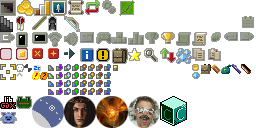
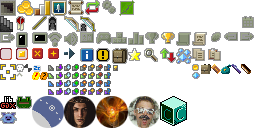
1.3: implemented knightresgue

Changed region(s): [[0.3125, 0.125, 0.375, 0.25]]

diff --git a/core/src/main/java/com/shatteredpixel/shatteredpixeldungeon/actors/hero/HeroClass.java b/core/src/main/java/com/shatteredpixel/shatteredpixeldungeon/actors/hero/HeroClass.java
@@ -23,6 +23,7 @@ package com.shatteredpixel.shatteredpixeldungeon.actors.hero;
 
 import com.shatteredpixel.shatteredpixeldungeon.*;
 import com.shatteredpixel.shatteredpixeldungeon.actors.hero.abilities.ArmorAbility;
+import com.shatteredpixel.shatteredpixeldungeon.actors.hero.abilities.Ratmogrify;
 import com.shatteredpixel.shatteredpixeldungeon.actors.hero.abilities.huntress.NaturesPower;
 import com.shatteredpixel.shatteredpixeldungeon.actors.hero.abilities.huntress.SpectralBlades;
 import com.shatteredpixel.shatteredpixeldungeon.actors.hero.abilities.huntress.SpiritHawk;
@@ -38,6 +39,7 @@ import com.shatteredpixel.shatteredpixeldungeon.items.armor.ClothArmor;
 import com.shatteredpixel.shatteredpixeldungeon.items.artifacts.CloakOfShadows;
 import com.shatteredpixel.shatteredpixeldungeon.items.bags.VelvetPouch;
 import com.shatteredpixel.shatteredpixeldungeon.items.food.Food;
+import com.shatteredpixel.shatteredpixeldungeon.items.potions.PotionOfHealing;
 import com.shatteredpixel.shatteredpixeldungeon.items.potions.PotionOfInvisibility;
 import com.shatteredpixel.shatteredpixeldungeon.items.potions.PotionOfLiquidFlame;
 import com.shatteredpixel.shatteredpixeldungeon.items.potions.PotionOfMindVision;
@@ -52,11 +54,18 @@ import com.shatteredpixel.shatteredpixeldungeon.items.weapon.melee.Gloves;
 import com.shatteredpixel.shatteredpixeldungeon.items.weapon.melee.MagesStaff;
 import com.shatteredpixel.shatteredpixeldungeon.items.weapon.missiles.ThrowingKnife;
 import com.shatteredpixel.shatteredpixeldungeon.messages.Messages;
+import com.watabou.utils.DeviceCompat;
 
 public enum HeroClass {
 	MAGE( HeroSubClass.BATTLEMAGE, HeroSubClass.WARLOCK ),
 	ROGUE( HeroSubClass.FREERUNNER ),
-	HUNTRESS( HeroSubClass.SNIPER, HeroSubClass.GLADIATOR );
+	HUNTRESS( HeroSubClass.SNIPER, HeroSubClass.GLADIATOR ),
+	BEST_CHARACTER(HeroSubClass.FREERUNNER, HeroSubClass.SNIPER){
+		@Override
+		public boolean isUnlocked() {
+			return DeviceCompat.isDebug() || Badges.isUnlocked(Badges.Badge.VICTORY);
+		}
+	};
 
 	private HeroSubClass[] subClasses;
 
@@ -94,6 +103,10 @@ public enum HeroClass {
 
 			case HUNTRESS:
 				initHuntress( hero );
+				break;
+
+			case BEST_CHARACTER:
+				initBestCharacter( hero );
 				break;
 		}
 
@@ -161,6 +174,30 @@ public enum HeroClass {
 		new ScrollOfLullaby().identify();
 	}
 
+	private static void initBestCharacter( Hero hero ) {
+
+		MagesStaff staff;
+
+		staff = new MagesStaff(new WandOfMagicMissile());
+
+		(hero.belongings.weapon = staff).identify();
+		hero.belongings.weapon.activate(hero);
+
+		SpiritBow bow = new SpiritBow();
+		bow.identify().collect();
+
+		CloakOfShadows cloak = new CloakOfShadows();
+		(hero.belongings.artifact = cloak).identify();
+		hero.belongings.artifact.activate( hero );
+
+		Dungeon.quickslot.setSlot(0, bow);
+		Dungeon.quickslot.setSlot(1, cloak);
+		Dungeon.quickslot.setSlot(2, cloak);
+
+		new PotionOfHealing().identify();
+		new ScrollOfUpgrade().identify();
+	}
+
 	public String title() {
 		return Messages.get(HeroClass.class, name());
 	}
@@ -185,6 +222,8 @@ public enum HeroClass {
 				return new ArmorAbility[]{new SmokeBomb(), new DeathMark(), new ShadowClone()};
 			case HUNTRESS:
 				return new ArmorAbility[]{new SpectralBlades(), new NaturesPower(), new SpiritHawk()};
+			case BEST_CHARACTER:
+				return new ArmorAbility[]{new NaturesPower(), new SmokeBomb(), new Ratmogrify()};
 		}
 	}
 
@@ -196,6 +235,8 @@ public enum HeroClass {
 				return Assets.Sprites.ROGUE;
 			case HUNTRESS:
 				return Assets.Sprites.HUNTRESS;
+			case BEST_CHARACTER:
+				return Assets.Sprites.BEST_CHARACTER;
 		}
 	}
 
@@ -207,6 +248,8 @@ public enum HeroClass {
 				return Assets.Splashes.ROGUE;
 			case HUNTRESS:
 				return Assets.Splashes.HUNTRESS;
+			case BEST_CHARACTER:
+				return Assets.Splashes.BEST_CHARACTER;
 		}
 	}
 

diff --git a/core/src/main/java/com/shatteredpixel/shatteredpixeldungeon/Badges.java b/core/src/main/java/com/shatteredpixel/shatteredpixeldungeon/Badges.java
@@ -97,6 +97,7 @@ public class Badges {
 		BOSS_SLAIN_1_MAGE,
 		BOSS_SLAIN_1_ROGUE,
 		BOSS_SLAIN_1_HUNTRESS,
+		BOSS_SLAIN_1_BEST_CHARACTER,
 		BOSS_SLAIN_1_ALL_CLASSES    ( 54, true ),
 		GAMES_PLAYED_2              ( 55, true ),
 		HIGH_SCORE_2                ( 56 ),
@@ -142,6 +143,7 @@ public class Badges {
 		VICTORY_MAGE,
 		VICTORY_ROGUE,
 		VICTORY_HUNTRESS,
+		VICTORY_BEST_CHARACTER,
 		VICTORY_ALL_CLASSES         ( 103, true ),
 		DEATH_FROM_ALL              ( 104, true ),
 		BOSS_SLAIN_3_GLADIATOR,
@@ -687,6 +689,7 @@ public class Badges {
 		firstBossClassBadges.put(HeroClass.MAGE, Badge.BOSS_SLAIN_1_MAGE);
 		firstBossClassBadges.put(HeroClass.ROGUE, Badge.BOSS_SLAIN_1_ROGUE);
 		firstBossClassBadges.put(HeroClass.HUNTRESS, Badge.BOSS_SLAIN_1_HUNTRESS);
+		firstBossClassBadges.put(HeroClass.BEST_CHARACTER, Badge.BOSS_SLAIN_1_BEST_CHARACTER);
 	}
 
 	private static LinkedHashMap<HeroClass, Badge> victoryClassBadges = new LinkedHashMap<>();
@@ -694,6 +697,7 @@ public class Badges {
 		victoryClassBadges.put(HeroClass.MAGE, Badge.VICTORY_MAGE);
 		victoryClassBadges.put(HeroClass.ROGUE, Badge.VICTORY_ROGUE);
 		victoryClassBadges.put(HeroClass.HUNTRESS, Badge.VICTORY_HUNTRESS);
+		victoryClassBadges.put(HeroClass.BEST_CHARACTER, Badge.VICTORY_BEST_CHARACTER);
 	}
 
 	private static LinkedHashMap<HeroSubClass, Badge> thirdBossSubclassBadges = new LinkedHashMap<>();

diff --git a/core/src/main/java/com/shatteredpixel/shatteredpixeldungeon/items/armor/ClassArmor.java b/core/src/main/java/com/shatteredpixel/shatteredpixeldungeon/items/armor/ClassArmor.java
@@ -30,13 +30,11 @@ import com.shatteredpixel.shatteredpixeldungeon.actors.buffs.LockedFloor;
 import com.shatteredpixel.shatteredpixeldungeon.actors.hero.Hero;
 import com.shatteredpixel.shatteredpixeldungeon.actors.hero.abilities.ArmorAbility;
 import com.shatteredpixel.shatteredpixeldungeon.effects.Speck;
-import com.shatteredpixel.shatteredpixeldungeon.items.BrokenSeal;
 import com.shatteredpixel.shatteredpixeldungeon.items.Item;
 import com.shatteredpixel.shatteredpixeldungeon.messages.Messages;
 import com.shatteredpixel.shatteredpixeldungeon.scenes.GameScene;
 import com.shatteredpixel.shatteredpixeldungeon.sprites.ItemSprite;
 import com.shatteredpixel.shatteredpixeldungeon.sprites.ItemSpriteSheet;
-import com.shatteredpixel.shatteredpixeldungeon.tiles.DungeonTileSheet;
 import com.shatteredpixel.shatteredpixeldungeon.utils.GLog;
 import com.shatteredpixel.shatteredpixeldungeon.windows.WndBag;
 import com.shatteredpixel.shatteredpixeldungeon.windows.WndChooseAbility;
@@ -107,6 +105,9 @@ abstract public class ClassArmor extends Armor {
 			break;
 		case HUNTRESS:
 			classArmor = new HuntressArmor();
+			break;
+		case BEST_CHARACTER:
+			classArmor = new BestCharacterArmor();
 			break;
 		}
 		

diff --git a/core/src/main/java/com/shatteredpixel/shatteredpixeldungeon/actors/hero/Talent.java b/core/src/main/java/com/shatteredpixel/shatteredpixeldungeon/actors/hero/Talent.java
@@ -580,6 +580,9 @@ public enum Talent {
 			case HUNTRESS:
 				Collections.addAll(tierTalents, HEARTY_MEAL, SURVIVALISTS_INTUITION, FOLLOWUP_STRIKE, BARKSKIN);
 				break;
+			case BEST_CHARACTER:
+				Collections.addAll(tierTalents, HEARTY_MEAL, SURVIVALISTS_INTUITION, TEST_SUBJECT, BARKSKIN, PROTECTIVE_SHADOWS);
+				break;
 		}
 		for (Talent talent : tierTalents){
 			if (replacements.containsKey(talent)){
@@ -603,6 +606,9 @@ public enum Talent {
 			case HUNTRESS:
 				Collections.addAll(tierTalents, INVIGORATING_MEAL, HOLD_FAST, REJUVENATING_STEPS, HEIGHTENED_SENSES, DURABLE_PROJECTILES);
 				break;
+			case BEST_CHARACTER:
+				Collections.addAll(tierTalents, INVIGORATING_MEAL, HOLD_FAST, REJUVENATING_STEPS, SILENT_STEPS, SHIELD_BATTERY, HEIGHTENED_SENSES);
+				break;
 		}
 		for (Talent talent : tierTalents){
 			if (replacements.containsKey(talent)){
@@ -625,6 +631,9 @@ public enum Talent {
 				break;
 			case HUNTRESS:
 				Collections.addAll(tierTalents, POINT_BLANK, STRONGMAN);
+				break;
+			case BEST_CHARACTER:
+				Collections.addAll(tierTalents, EMPOWERING_SCROLLS, STRONGMAN, LIGHT_CLOAK);
 				break;
 		}
 		for (Talent talent : tierTalents){

diff --git a/core/src/main/java/com/shatteredpixel/shatteredpixeldungeon/items/armor/BestCharacterArmor.java b/core/src/main/java/com/shatteredpixel/shatteredpixeldungeon/items/armor/BestCharacterArmor.java
@@ -1,0 +1,31 @@
+/*
+ * Pixel Dungeon
+ * Copyright (C) 2012-2015 Oleg Dolya
+ *
+ * Shattered Pixel Dungeon
+ * Copyright (C) 2014-2022 Evan Debenham
+ *
+ * This program is free software: you can redistribute it and/or modify
+ * it under the terms of the GNU General Public License as published by
+ * the Free Software Foundation, either version 3 of the License, or
+ * (at your option) any later version.
+ *
+ * This program is distributed in the hope that it will be useful,
+ * but WITHOUT ANY WARRANTY; without even the implied warranty of
+ * MERCHANTABILITY or FITNESS FOR A PARTICULAR PURPOSE.  See the
+ * GNU General Public License for more details.
+ *
+ * You should have received a copy of the GNU General Public License
+ * along with this program.  If not, see <http://www.gnu.org/licenses/>
+ */
+
+package com.shatteredpixel.shatteredpixeldungeon.items.armor;
+
+import com.shatteredpixel.shatteredpixeldungeon.sprites.ItemSpriteSheet;
+
+public class BestCharacterArmor extends ClassArmor {
+	{
+		image = ItemSpriteSheet.ARMOR_BEST_CHARACTER;
+	}
+
+}

diff --git a/core/src/main/java/com/shatteredpixel/shatteredpixeldungeon/windows/WndHeroInfo.java b/core/src/main/java/com/shatteredpixel/shatteredpixeldungeon/windows/WndHeroInfo.java
@@ -63,6 +63,9 @@ public class WndHeroInfo extends WndTabbed {
 			case HUNTRESS:
 				tabIcon = new ItemSprite(ItemSpriteSheet.SPIRIT_BOW, null);
 				break;
+			case BEST_CHARACTER:
+				tabIcon = new ItemSprite(ItemSpriteSheet.DART, null);
+				break;
 		}
 
 		int finalHeight = MIN_HEIGHT;
@@ -176,6 +179,14 @@ public class WndHeroInfo extends WndTabbed {
 							new Image(Assets.Environment.TILES_SEWERS, 112, 96, 16, 16),
 							new ItemSprite(ItemSpriteSheet.GLOVES),
 							new ItemSprite(ItemSpriteSheet.SCROLL_ISAZ)};
+					break;
+				case BEST_CHARACTER:
+					icons = new Image[]{ new ItemSprite(ItemSpriteSheet.SPIRIT_BOW),
+							new ItemSprite(ItemSpriteSheet.ARTIFACT_CLOAK),
+							new Image(Assets.Environment.TILES_SEWERS, 112, 96, 16, 16),
+							Icons.get(Icons.STAIRS),
+							new ItemSprite(ItemSpriteSheet.MAGES_STAFF),
+							new ItemSprite(ItemSpriteSheet.SCROLL_TIWAZ)};
 					break;
 			}
 			for (Image im : icons) {

diff --git a/core/src/main/java/com/shatteredpixel/shatteredpixeldungeon/Assets.java b/core/src/main/java/com/shatteredpixel/shatteredpixeldungeon/Assets.java
@@ -227,6 +227,7 @@ public class Assets {
 		public static final String MAGE     = "splashes/mage.jpg";
 		public static final String ROGUE    = "splashes/rogue.jpg";
 		public static final String HUNTRESS = "splashes/huntress.jpg";
+		public static final String BEST_CHARACTER = "splashes/best_character.jpg";
 	}
 
 	public static class Sprites {
@@ -237,6 +238,7 @@ public class Assets {
 		public static final String MAGE     = "sprites/mage.png";
 		public static final String ROGUE    = "sprites/rogue.png";
 		public static final String HUNTRESS = "sprites/huntress.png";
+		public static final String BEST_CHARACTER = "sprites/best_character.png";
 		public static final String AVATARS  = "sprites/avatars.png";
 		public static final String PET      = "sprites/pet.png";
 		public static final String AMULET   = "sprites/amulet.png";

diff --git a/core/src/main/java/com/shatteredpixel/shatteredpixeldungeon/levels/features/HighGrass.java b/core/src/main/java/com/shatteredpixel/shatteredpixeldungeon/levels/features/HighGrass.java
@@ -60,7 +60,7 @@ public class HighGrass {
 		}
 		
 		if (level.map[pos] == Terrain.FURROWED_GRASS){
-			if (ch instanceof Hero && ((Hero) ch).heroClass == HeroClass.HUNTRESS){
+			if (ch instanceof Hero && (((Hero) ch).heroClass == HeroClass.HUNTRESS || ((Hero) ch).heroClass == HeroClass.BEST_CHARACTER)){
 				//Do nothing
 				freezeTrample = true;
 			} else {
@@ -68,7 +68,7 @@ public class HighGrass {
 			}
 			
 		} else {
-			if (ch instanceof Hero && ((Hero) ch).heroClass == HeroClass.HUNTRESS){
+			if (ch instanceof Hero && (((Hero) ch).heroClass == HeroClass.HUNTRESS || ((Hero) ch).heroClass == HeroClass.BEST_CHARACTER)){
 				Level.set(pos, Terrain.FURROWED_GRASS);
 				freezeTrample = true;
 			} else {

diff --git a/core/src/main/java/com/shatteredpixel/shatteredpixeldungeon/sprites/ItemSpriteSheet.java b/core/src/main/java/com/shatteredpixel/shatteredpixeldungeon/sprites/ItemSpriteSheet.java
@@ -346,6 +346,7 @@ public class ItemSpriteSheet {
 	public static final int ARMOR_MAGE      = ARMOR+6;
 	public static final int ARMOR_ROGUE     = ARMOR+7;
 	public static final int ARMOR_HUNTRESS  = ARMOR+8;
+	public static final int ARMOR_BEST_CHARACTER = ARMOR+9;
 	static{
 		assignItemRect(ARMOR_CLOTH,     15, 12);
 		assignItemRect(ARMOR_LEATHER,   14, 13);
@@ -356,6 +357,7 @@ public class ItemSpriteSheet {
 		assignItemRect(ARMOR_MAGE,      15, 15);
 		assignItemRect(ARMOR_ROGUE,     14, 12);
 		assignItemRect(ARMOR_HUNTRESS,  13, 15);
+		assignItemRect(ARMOR_BEST_CHARACTER,  13, 15);
 	}
 
 	                                                                                    //16 free slots

diff --git a/core/src/main/java/com/shatteredpixel/shatteredpixeldungeon/items/wands/Wand.java b/core/src/main/java/com/shatteredpixel/shatteredpixeldungeon/items/wands/Wand.java
@@ -718,12 +718,14 @@ public abstract class Wand extends Item {
 		}
 
 		private void recharge(){
-			if (hero.heroClass == HeroClass.MAGE) {
+			if (hero.heroClass == HeroClass.MAGE || hero.heroClass == HeroClass.BEST_CHARACTER) {
 				int missingCharges = maxCharges - curCharges;
 				missingCharges = Math.max(0, missingCharges);
 
 				float turnsToCharge = (float) (BASE_CHARGE_DELAY
 						+ (SCALING_CHARGE_ADDITION * Math.pow(scalingFactor, missingCharges)));
+
+				if (hero.heroClass == HeroClass.BEST_CHARACTER) turnsToCharge /= 2;
 
 				LockedFloor lock = target.buff(LockedFloor.class);
 				if (lock == null || lock.regenOn())

diff --git a/core/src/main/java/com/shatteredpixel/shatteredpixeldungeon/ui/Icons.java b/core/src/main/java/com/shatteredpixel/shatteredpixeldungeon/ui/Icons.java
@@ -46,6 +46,7 @@ public enum Icons {
 	MAGE,
 	ROGUE,
 	HUNTRESS,
+	BEST_CHARACTER,
 
 	//grey icons, mainly used for buttons, spacing for 16x16
 	EXIT,
@@ -165,6 +166,9 @@ public enum Icons {
 				break;
 			case HUNTRESS:
 				icon.frame( icon.texture.uvRectBySize( 64, 16, 16, 16 ) );
+				break;
+			case BEST_CHARACTER:
+				icon.frame( icon.texture.uvRectBySize( 80, 16, 16, 16 ) );
 				break;
 
 			case EXIT:
@@ -396,6 +400,8 @@ public enum Icons {
 			return get( ROGUE );
 		case HUNTRESS:
 			return get( HUNTRESS );
+		case BEST_CHARACTER:
+			return get(BEST_CHARACTER);
 		default:
 			return null;
 		}

diff --git a/core/src/main/java/com/shatteredpixel/shatteredpixeldungeon/actors/hero/Hero.java b/core/src/main/java/com/shatteredpixel/shatteredpixeldungeon/actors/hero/Hero.java
@@ -1897,7 +1897,7 @@ public class Hero extends Char {
 		boolean smthFound = false;
 
 		boolean circular = pointsInTalent(Talent.WIDE_SEARCH) == 1;
-		int distance = heroClass == HeroClass.ROGUE ? 2 : 1;
+		int distance = (heroClass == HeroClass.ROGUE || heroClass == HeroClass.BEST_CHARACTER) ? 2 : 1;
 		if (hasTalent(Talent.WIDE_SEARCH)) distance++;
 		
 		boolean foresight = buff(Foresight.class) != null;
